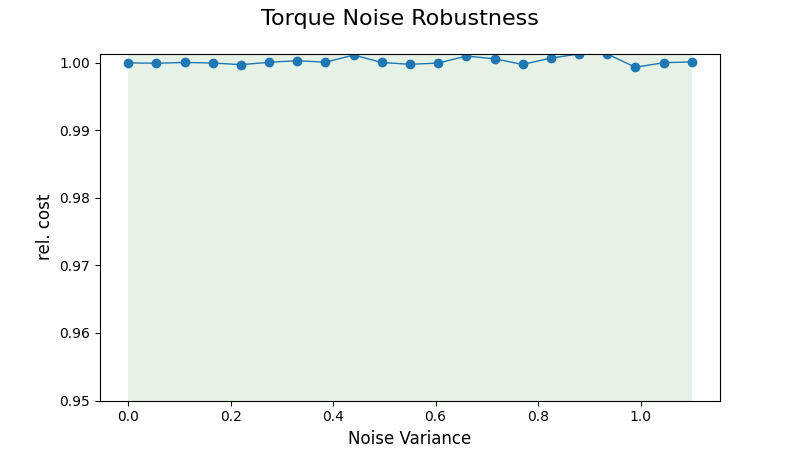
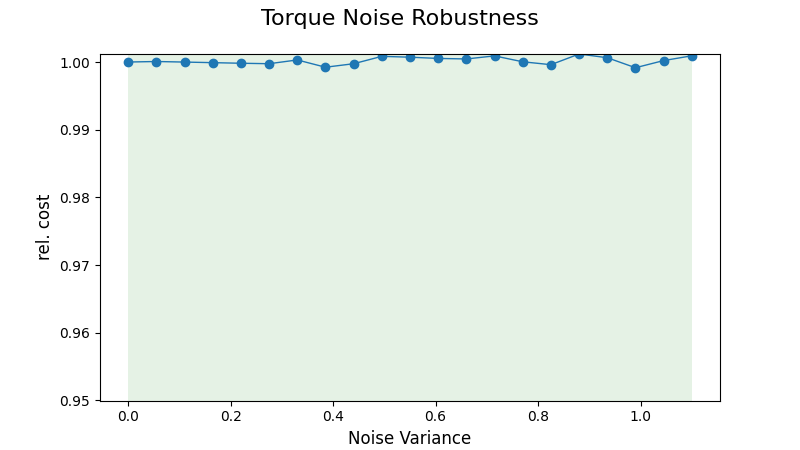
Added MC-PILCO policies for benchmarks (2).

Changed region(s): [[0.1562, 0.1244, 0.7188, 0.1556], [0.75, 0.1244, 0.875, 0.1556], [0.0625, 0.28, 0.125, 0.3111]]

diff --git a/leaderboard/robustness/acrobot/con_mcpilco.py b/leaderboard/robustness/acrobot/con_mcpilco.py
@@ -35,7 +35,7 @@ T_sym = 0.002
 
 # controller parameters
 ctrl_rate = int(T_control/T_sym)
-u_max = torque_limit[1] * .47
+u_max = torque_limit[1] * .7
 n_dof = 2
 controlled_joint = [1]
 switch_stabilization = True
@@ -47,16 +47,16 @@ controller = Controller_sum_of_Gaussians_with_angles_numpy(parameters, ctrl_rate
 
 if switch_stabilization:
     stabilization_controller = LQRController_nonsymbolic(model_pars=mpar)
-    Q = np.diag((0.97, 0.93, 0.39, 0.26))
-    R = np.diag((0.11, 0.11))
-    # stabilization_controller.set_cost_parameters(u2u2_cost=100, p1p1_cost=100, p2p2_cost=100)
-    stabilization_controller.set_cost_matrices(Q=Q, R=R)
+    # Q = np.diag((0.97, 0.93, 0.39, 0.26))
+    # R = np.diag((0.11, 0.11))
+    # stabilization_controller.set_cost_matrices(Q=Q, R=R)
+    stabilization_controller.set_cost_parameters(u2u2_cost=100, p1p1_cost=100, p2p2_cost=100)
     stabilization_controller.set_parameters(failure_value=0., cost_to_go_cut=10 ** 3)
     condition_policy = lambda t, x: abs(x[0]) < 2.7 #abs(x[0]) - np.pi > 0.1 or abs(x[1]) > 0.1
-    condition_stabilization = lambda t, x: abs(x[0]) > 2.8
+    condition_stabilization = lambda t, x: abs(x[0]) > 2.75
     comb_controller = CombinedController(controller1=controller, controller2=stabilization_controller,
                                          condition1=condition_policy, condition2=condition_stabilization,
-                                         verbose=True)
+                                         verbose=False)
     controller = comb_controller
 
 controller.set_goal(goal)

diff --git a/leaderboard/simulation/acrobot/con_mcpilco.py b/leaderboard/simulation/acrobot/con_mcpilco.py
@@ -35,7 +35,7 @@ T_sym = 0.002
 
 # controller parameters
 ctrl_rate = int(T_control/T_sym)
-u_max = torque_limit[1] * .7
+u_max = torque_limit[1] * .47
 n_dof = 2
 controlled_joint = [1]
 switch_stabilization = True
@@ -53,10 +53,10 @@ if switch_stabilization:
     stabilization_controller.set_cost_parameters(u2u2_cost=100, p1p1_cost=100, p2p2_cost=100)
     stabilization_controller.set_parameters(failure_value=0., cost_to_go_cut=10 ** 3)
     condition_policy = lambda t, x: abs(x[0]) < 2.7 #abs(x[0]) - np.pi > 0.1 or abs(x[1]) > 0.1
-    condition_stabilization = lambda t, x: abs(x[0]) > 2.75
+    condition_stabilization = lambda t, x: abs(x[0]) > 2.8
     comb_controller = CombinedController(controller1=controller, controller2=stabilization_controller,
                                          condition1=condition_policy, condition2=condition_stabilization,
-                                         verbose=True)
+                                         verbose=False)
     controller = comb_controller
 
 controller.set_goal(goal)

diff --git a/src/python/double_pendulum/controller/mcpilco/mcpilco_controller.py b/src/python/double_pendulum/controller/mcpilco/mcpilco_controller.py
@@ -22,7 +22,7 @@ class Controller_sum_of_Gaussians_with_angles_numpy(AbstractController):
     def get_control_output(self, meas_pos, meas_vel, meas_tau, meas_time):
         if self.ctrl_cnt % self.ctrl_rate == 0:
             x = np.zeros((self.num_dof * 3))  # velocities, cos, sin
-            print(meas_vel)
+            # print(meas_vel)
             x[:self.num_dof] = meas_vel
             x[self.num_dof:2*self.num_dof] = np.cos(meas_pos)
             x[2 * self.num_dof:] = np.sin(meas_pos)

diff --git a/leaderboard/robustness/pendubot/con_mcpilco.py b/leaderboard/robustness/pendubot/con_mcpilco.py
@@ -61,7 +61,7 @@ else:
 
 comb_controller = CombinedController(controller1=controller, controller2=stabilization_controller,
                                      condition1=condition_policy, condition2=condition_stabilization,
-                                     verbose=True)
+                                     verbose=False)
 controller = comb_controller
 
 controller.set_goal(goal)

diff --git a/leaderboard/simulation/pendubot/con_mcpilco.py b/leaderboard/simulation/pendubot/con_mcpilco.py
@@ -61,7 +61,7 @@ else:
 
 comb_controller = CombinedController(controller1=controller, controller2=stabilization_controller,
                                      condition1=condition_policy, condition2=condition_stabilization,
-                                     verbose=True)
+                                     verbose=False)
 controller = comb_controller
 
 controller.set_goal(goal)
